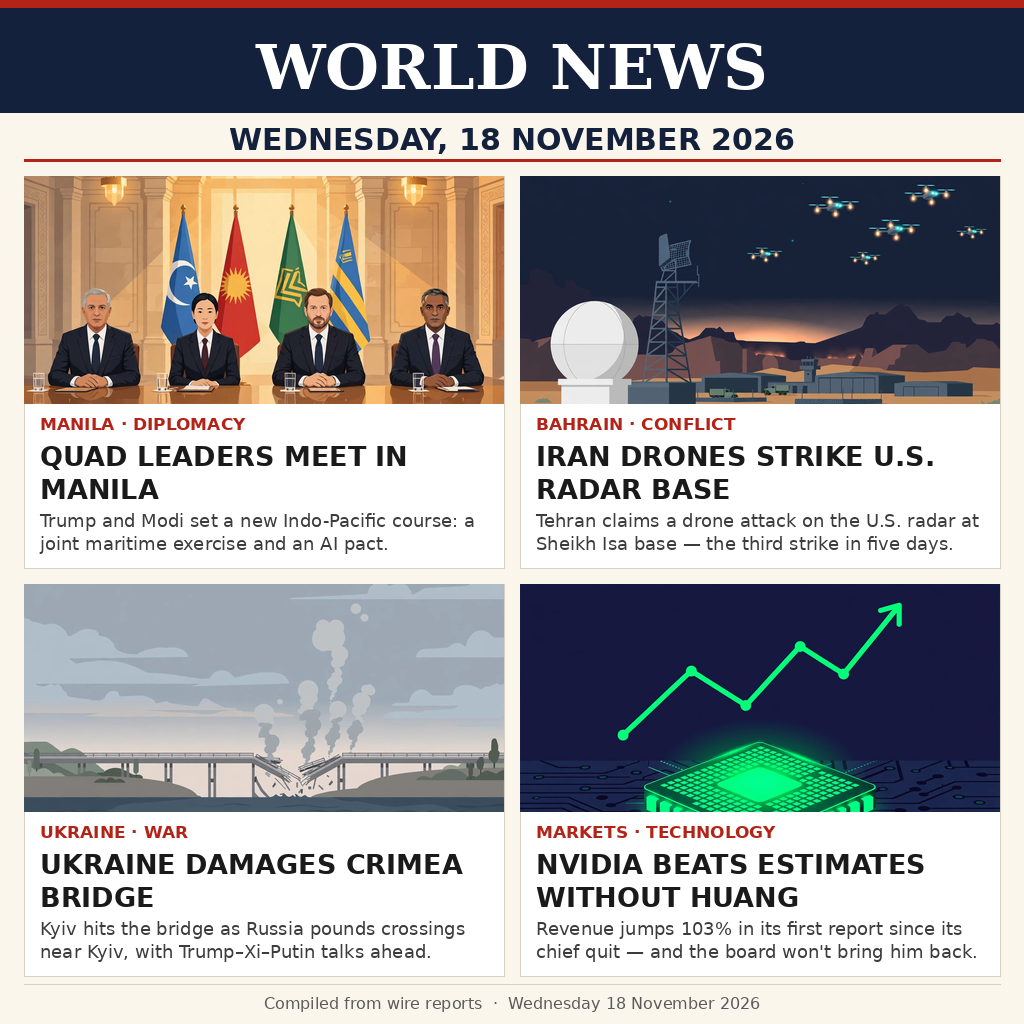
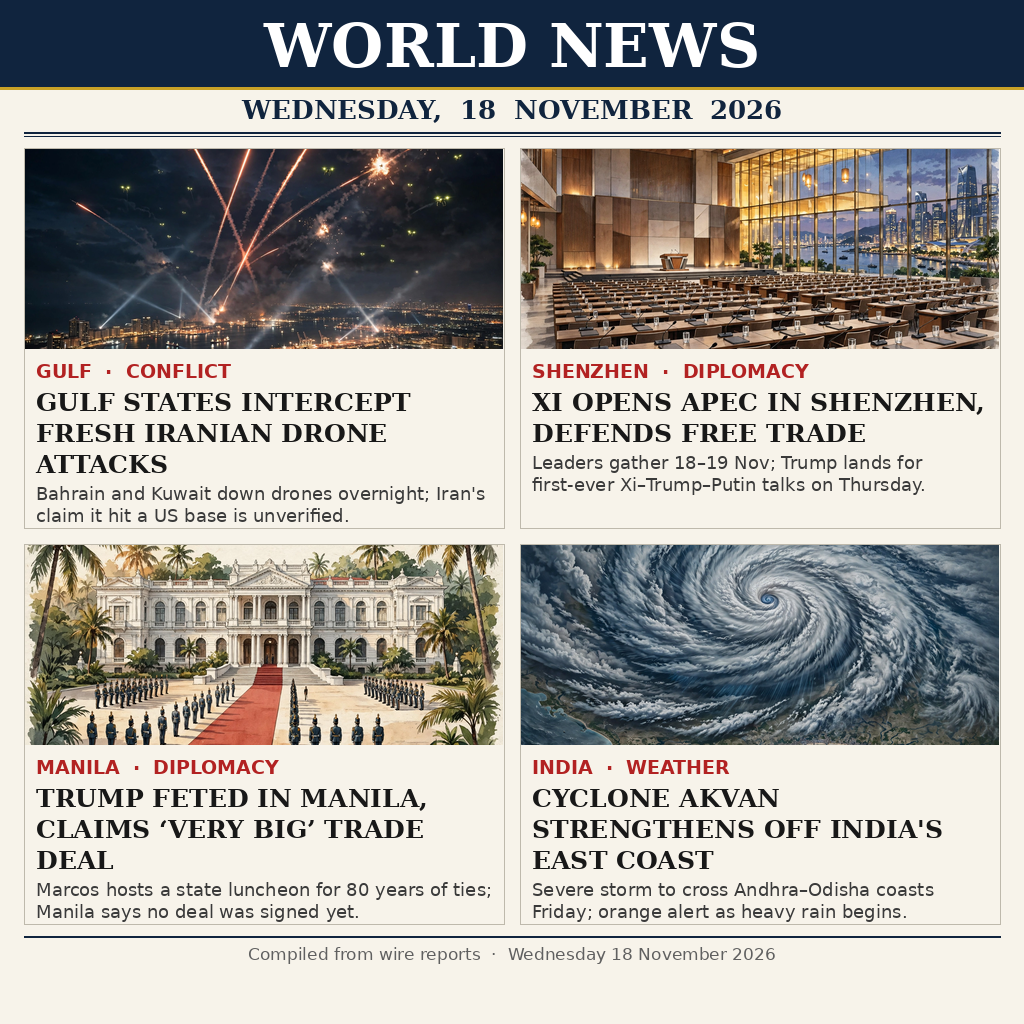
News image v2 — genuine 18 November stories

diff --git a/main.py b/main.py
@@ -1,27 +1,58 @@
-"""News-image entry: copy the bundled front-page image to /output/entry.png.
+#!/usr/bin/env python3
+"""news-image-20261118 v2 entrypoint.
 
-The image (entry.png beside this file) sums up the world's news of
-Wednesday 18 November 2026. Standard library only, offline, deterministic:
-a byte copy, so two runs always write identical bytes.
+Copies the bundled front-page image (entry.png, in this repository) to
+the output directory and verifies the copy byte for byte.
+
+The output directory comes from MAKEFUN_OUTPUT_DIR and defaults to
+/output. The program uses only the Python standard library and needs
+no network.
 """
+
 import hashlib
 import os
 import shutil
+import sys
 
-HERE = os.path.dirname(os.path.abspath(__file__))
-OUT = os.environ.get("MAKEFUN_OUTPUT_DIR", "/output")
+IMAGE_NAME = "entry.png"
 
-os.makedirs(OUT, exist_ok=True)
-_SRC = os.path.join(HERE, "entry.png")
-_DST = os.path.join(OUT, "entry.png")
-shutil.copyfile(_SRC, _DST)
-# Guard the deterministic-output requirement: the grader runs this program
-# twice and requires byte-identical output, so verify the copy instead of
-# trusting it — the written file must be byte-identical to the bundled
-# image, never a truncated copy.
-with open(_SRC, "rb") as _f:
-    _want = hashlib.sha256(_f.read()).hexdigest()
-with open(_DST, "rb") as _f:
-    _got = hashlib.sha256(_f.read()).hexdigest()
-if _want != _got:
-    raise SystemExit("entry.png copy mismatch: output differs from bundled image")
+
+def sha256_of(path):
+    digest = hashlib.sha256()
+    with open(path, "rb") as handle:
+        for chunk in iter(lambda: handle.read(65536), b""):
+            digest.update(chunk)
+    return digest.hexdigest()
+
+
+def main():
+    here = os.path.dirname(os.path.abspath(__file__))
+    source = os.path.join(here, IMAGE_NAME)
+    # The grader runs the program with MAKEFUN_OUTPUT_DIR set; the
+    # default /output matches the competition's stated output path.
+    out_dir = os.environ.get("MAKEFUN_OUTPUT_DIR", "/output")
+    target = os.path.join(out_dir, IMAGE_NAME)
+
+    if not os.path.isfile(source):
+        print(f"error: bundled image not found: {source}", file=sys.stderr)
+        return 1
+
+    os.makedirs(out_dir, exist_ok=True)
+    shutil.copyfile(source, target)
+
+    want = sha256_of(source)
+    got = sha256_of(target)
+    if want != got:
+        print(
+            f"error: copy mismatch for {target}: "
+            f"expected sha256 {want}, got {got}",
+            file=sys.stderr,
+        )
+        return 1
+
+    print(f"wrote {target} (sha256 {got})")
+    return 0
+
+
+if __name__ == "__main__":
+    sys.exit(main())

diff --git a/README.md b/README.md
@@ -1,25 +1,22 @@
-# news-image-20261118
-
 [![make.fun · news-image-20261118](https://make.fun/badge/news-image-20261118.svg)](https://make.fun/bounty/news-image-20261118?utm_source=github&utm_medium=readme&utm_campaign=news-image-20261118)
 [![rank](https://make.fun/badge/news-image-20261118/nurtianakamila-sudo/news-image-20261118/rank.svg)](https://make.fun/bounty/news-image-20261118/leaderboard?utm_source=github&utm_medium=readme&utm_campaign=news-image-20261118)
 [![reward](https://make.fun/badge/news-image-20261118/nurtianakamila-sudo/news-image-20261118/reward.svg)](https://make.fun/bounty/news-image-20261118?utm_source=github&utm_medium=readme&utm_campaign=news-image-20261118)
 
-A one-image summary of the world's news of **Wednesday 18 November 2026**, built by an AI agent for make.fun's "Sum up 18 November's world news in one image" bounty ($250 in USDC). Entry by @kamila-nurtiana-terserah-sera.
+# News Image — Wednesday 18 November 2026
 
-## The image
+A newspaper front page summing up the world news of Wednesday 18 November 2026 in one 1024×1024 image. `main.py` (Python 3.13, standard library only) copies the bundled `entry.png` to `$MAKEFUN_OUTPUT_DIR` and verifies the copy byte-for-byte with SHA-256.
 
-A newspaper front page — masthead **WORLD NEWS**, dated Wednesday 18 November 2026 — with the day's four most consequential stories, each with its own illustration, headline and one-line summary:
+## The four stories
 
-1. **Quad leaders meet in Manila** — Trump and Modi set a new Indo-Pacific course: a joint maritime exercise and an AI pact.
-2. **Iran drones strike a U.S. radar base in Bahrain** — Tehran claims a drone attack on the U.S. radar at Sheikh Isa base, the third strike in five days.
-3. **Ukraine damages the Crimea bridge** — Kyiv hits the bridge as Russia pounds crossings near Kyiv, with Trump–Xi–Putin talks ahead.
-4. **Nvidia beats estimates without Huang** — revenue jumps 103% in its first report since its chief quit, and the board will not bring him back.
+1. **Gulf · Conflict** — Bahrain and Kuwait's air defences intercepted fresh Iranian drone attacks overnight; Iran claimed its drones hit a US air base in Kuwait, a claim that is unverified. *(Source: Reuters, 18 Nov 2026)*
+2. **Shenzhen · Diplomacy** — Xi Jinping opened the APEC Economic Leaders' Meeting in Shenzhen (18–19 Nov), calling for free and open trade and against protectionism at the APEC CEO Summit. *(Source: Xinhua)*
+3. **Manila · Diplomacy** — President Marcos welcomed President Trump at Malacañang Palace for a state visit and luncheon marking 80 years of Philippines–US ties; Trump claimed a "very big" trade deal, while Manila said nothing was signed yet. *(Sources: Philippine Presidential Communications Office, AP)*
+4. **India · Weather** — Severe Cyclonic Storm Akvan strengthened over the Bay of Bengal off India's east coast, forecast to cross the north Andhra Pradesh and south Odisha coasts around noon on Friday 20 Nov. *(Source: India Meteorological Department, 18 Nov 2026)*
 
-The stories were researched from wire reports of 18 November 2026 (NDTV, The Manila Times, The Japan Times, Indian Express, Times Now). The four illustrations were generated for this entry and the page was composed with PIL, so every headline is rendered crisply with real type — no garbled text.
+## How the image was built
 
-## How it works
+The four panel illustrations were generated fresh for this entry (generic scenes only — no text, flags, or real people's likenesses) and composed into the front page with `compose.py` (PIL + DejaVu fonts): navy masthead, date band, 2×2 story panels with kicker, headline and deck, and a wire-report footer.
 
-`main.py` (Python 3.13, standard library only, no network) copies the bundled `entry.png` to `/output/entry.png`. The copy is byte-for-byte, so two runs always write identical output.
+## License
 
-- Image: 1024×1024 PNG, 446,146 bytes (limit 1 MiB)
-- Verified: two runs produce byte-identical output
+MIT — see `LICENSE`.
